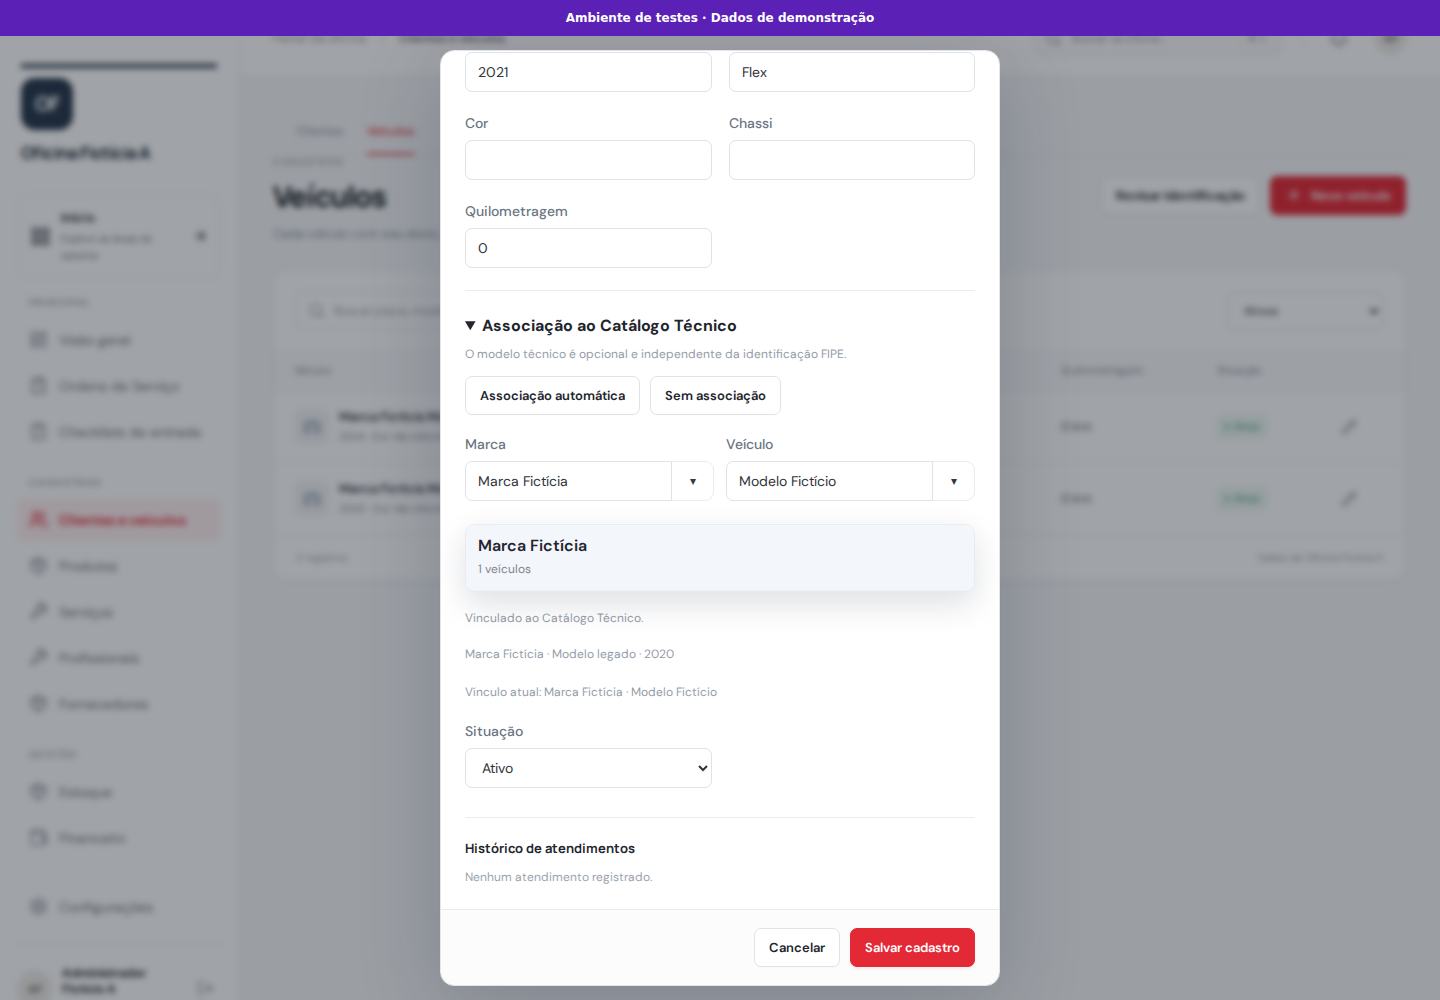
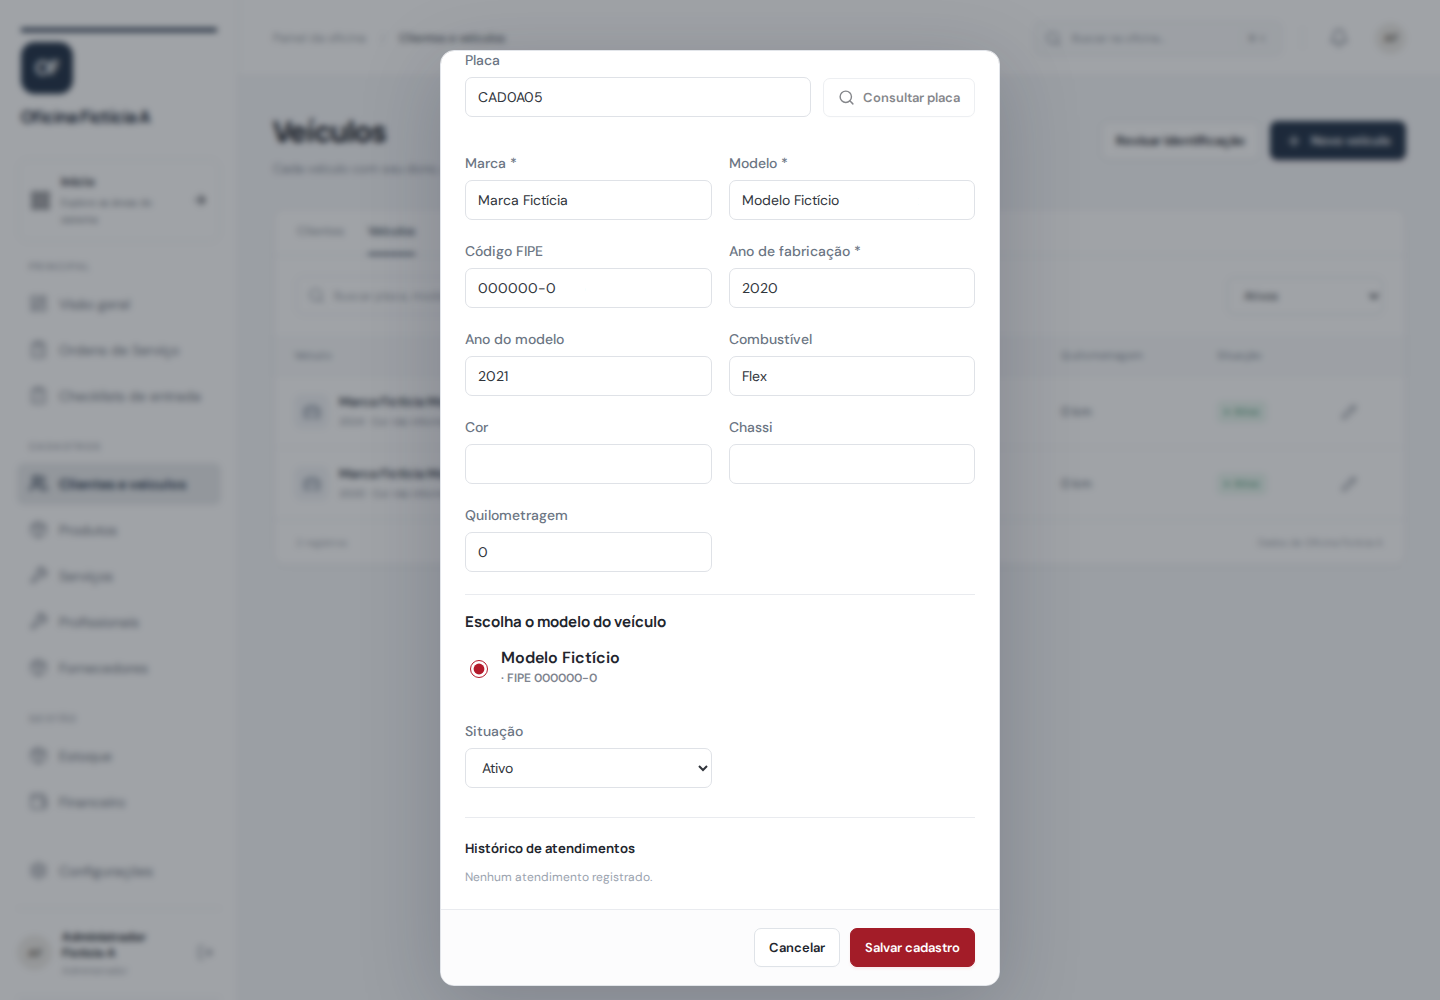
Registra capturas da revisão com modelo único

diff --git a/docs/mapeamento-visual/CHECKLIST.md b/docs/mapeamento-visual/CHECKLIST.md
@@ -119,8 +119,8 @@ Estados: capturada, pendente, bloqueada e não aplicável.
 | cad005-switch-mobile | Ordens de serviço | CAD-005 — Troca de veículo no atendimento (mobile) — Formulário real com dados fictícios; identificação FIPE independente da associação técnica. | [`capturas/07-ordens-servico/cad005-switch-mobile.png`](./capturas/07-ordens-servico/cad005-switch-mobile.png) | capturada | 2026-10-30 | f6e2a4cb13517dc8f57dc1703586ce27268d004c | — |
 | cad005-register-footer-mobile | Veículos | CAD-005 — Novo veículo (mobile) — rodapé — Formulário real com dados fictícios; identificação FIPE independente da associação técnica. | [`capturas/04-veiculos/cad005-register-footer-mobile.png`](./capturas/04-veiculos/cad005-register-footer-mobile.png) | capturada | 2026-10-30 | f6e2a4cb13517dc8f57dc1703586ce27268d004c | — |
 | cad005-review-footer-mobile | Veículos | CAD-005 — Revisão de veículo (mobile) — rodapé — Formulário real com dados fictícios; identificação FIPE independente da associação técnica. | [`capturas/04-veiculos/cad005-review-footer-mobile.png`](./capturas/04-veiculos/cad005-review-footer-mobile.png) | capturada | 2026-10-30 | f6e2a4cb13517dc8f57dc1703586ce27268d004c | — |
-| cad005-review-catalog-desktop | Veículos | CAD-005 — Associação manual no modal (desktop) — Clique real na marca e no modelo, gravação e reabertura do vínculo manual sem alterar a identificação FIPE. | [`capturas/04-veiculos/cad005-review-catalog-desktop.png`](./capturas/04-veiculos/cad005-review-catalog-desktop.png) | capturada | 2026-10-30 | e5a84d7a9bb11a524307051eb7da7c44bfddd12b | — |
-| cad005-review-catalog-mobile | Veículos | CAD-005 — Associação manual no modal (mobile) — Clique real na marca e no modelo, gravação e reabertura do vínculo manual sem alterar a identificação FIPE. | [`capturas/04-veiculos/cad005-review-catalog-mobile.png`](./capturas/04-veiculos/cad005-review-catalog-mobile.png) | capturada | 2026-10-30 | e5a84d7a9bb11a524307051eb7da7c44bfddd12b | — |
+| cad005-review-catalog-desktop | Veículos | CAD-005 — Associação manual no modal (desktop) — Revisão real com seleção única do modelo do veículo e código FIPE, usando dados fictícios. | [`capturas/04-veiculos/cad005-review-catalog-desktop.png`](./capturas/04-veiculos/cad005-review-catalog-desktop.png) | capturada | 2026-11-03 | eb61ac242259c0294f2056a6f5a70b1b8b2127e1 | — |
+| cad005-review-catalog-mobile | Veículos | CAD-005 — Associação manual no modal (mobile) — Revisão real com seleção única do modelo do veículo e código FIPE, usando dados fictícios. | [`capturas/04-veiculos/cad005-review-catalog-mobile.png`](./capturas/04-veiculos/cad005-review-catalog-mobile.png) | capturada | 2026-11-03 | eb61ac242259c0294f2056a6f5a70b1b8b2127e1 | — |
 | adm0021-oficina-permissoes-desktop | Painel Administrativo Central | Acessos e permissões da oficina — ADM-002.2: consulta externa de placas liberada independentemente do catálogo. Interface real em Chromium com API fictícia; backend validado separadamente. | [`capturas/17-painel-admin-central/adm0021-oficina-permissoes-desktop.png`](./capturas/17-painel-admin-central/adm0021-oficina-permissoes-desktop.png) | capturada | 2026-11-01 | 2708c7c44e1db1c0938fbf03b17ff9ab8e7f1069 | Dados fictícios, sem chaves ou banco persistente. CI #277; captura revisada visualmente. |
 | adm0021-oficina-convites-mobile | Painel Administrativo Central | Convites e ativação no celular — Interface real da ADM-002.1 em Chromium, com API fictícia interceptada; integração PostgreSQL validada separadamente. | [`capturas/17-painel-admin-central/adm0021-oficina-convites-mobile.png`](./capturas/17-painel-admin-central/adm0021-oficina-convites-mobile.png) | capturada | 2026-10-30 | fdbee764e0dfdcaeb7698131779d52a4a8a6a4a8 | Dados fictícios de navegador, sem credenciais, tokens ou acesso ao banco persistente. CI #273. |
 | adm0021-oficina-dados-mobile | Painel Administrativo Central | Dados gerais no celular — Interface real da ADM-002.1 em Chromium, com API fictícia interceptada; integração PostgreSQL validada separadamente. | [`capturas/17-painel-admin-central/adm0021-oficina-dados-mobile.png`](./capturas/17-painel-admin-central/adm0021-oficina-dados-mobile.png) | capturada | 2026-10-30 | fdbee764e0dfdcaeb7698131779d52a4a8a6a4a8 | Dados fictícios de navegador, sem credenciais, tokens ou acesso ao banco persistente. CI #273. |

diff --git a/docs/mapeamento-visual/INDEX.md b/docs/mapeamento-visual/INDEX.md
@@ -156,19 +156,19 @@ Estado: capturada · mobile · captura 2026-10-30 · commit de origem: f6e2a4cb1
 
 ### CAD-005 — Associação manual no modal (desktop)
 
-Clique real na marca e no modelo, gravação e reabertura do vínculo manual sem alterar a identificação FIPE.
+Revisão real com seleção única do modelo do veículo e código FIPE, usando dados fictícios.
 
 [![CAD-005 — Associação manual no modal (desktop)](./capturas/04-veiculos/cad005-review-catalog-desktop.png)](./capturas/04-veiculos/cad005-review-catalog-desktop.png)
 
-Estado: capturada · desktop · captura 2026-10-30 · commit de origem: e5a84d7a9bb11a524307051eb7da7c44bfddd12b · [arquivo completo](./capturas/04-veiculos/cad005-review-catalog-desktop.png)
+Estado: capturada · desktop · captura 2026-11-03 · commit de origem: eb61ac242259c0294f2056a6f5a70b1b8b2127e1 · [arquivo completo](./capturas/04-veiculos/cad005-review-catalog-desktop.png)
 
 ### CAD-005 — Associação manual no modal (mobile)
 
-Clique real na marca e no modelo, gravação e reabertura do vínculo manual sem alterar a identificação FIPE.
+Revisão real com seleção única do modelo do veículo e código FIPE, usando dados fictícios.
 
 [![CAD-005 — Associação manual no modal (mobile)](./capturas/04-veiculos/cad005-review-catalog-mobile.png)](./capturas/04-veiculos/cad005-review-catalog-mobile.png)
 
-Estado: capturada · mobile · captura 2026-10-30 · commit de origem: e5a84d7a9bb11a524307051eb7da7c44bfddd12b · [arquivo completo](./capturas/04-veiculos/cad005-review-catalog-mobile.png)
+Estado: capturada · mobile · captura 2026-11-03 · commit de origem: eb61ac242259c0294f2056a6f5a70b1b8b2127e1 · [arquivo completo](./capturas/04-veiculos/cad005-review-catalog-mobile.png)
 
 ## 05 — Checklist
 
